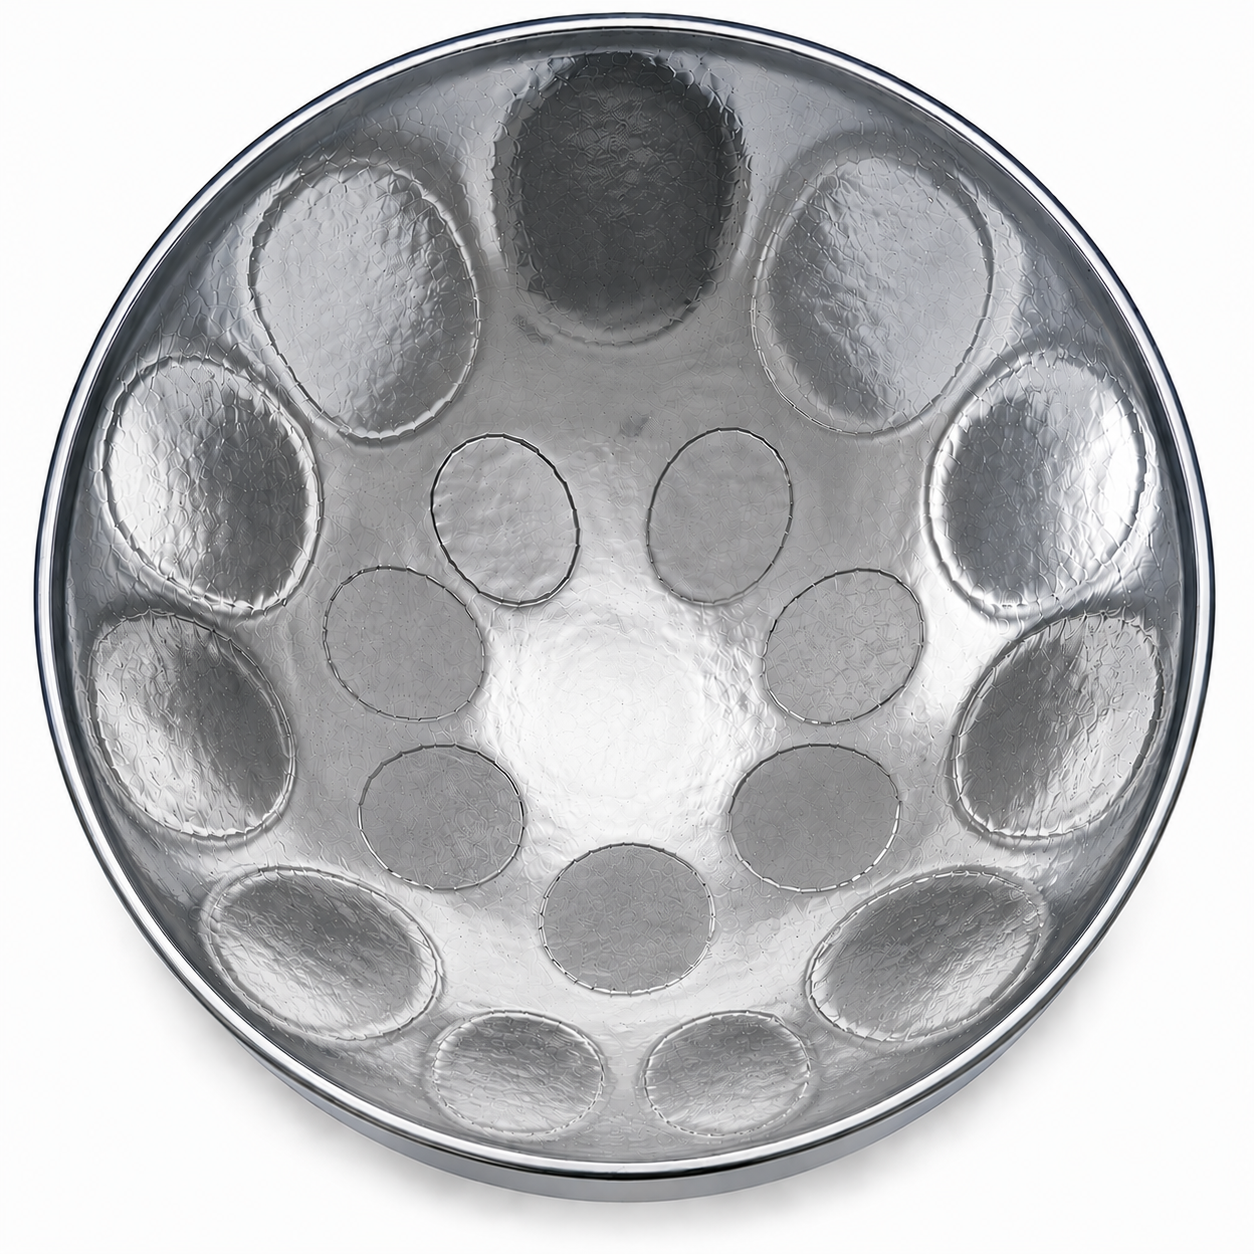
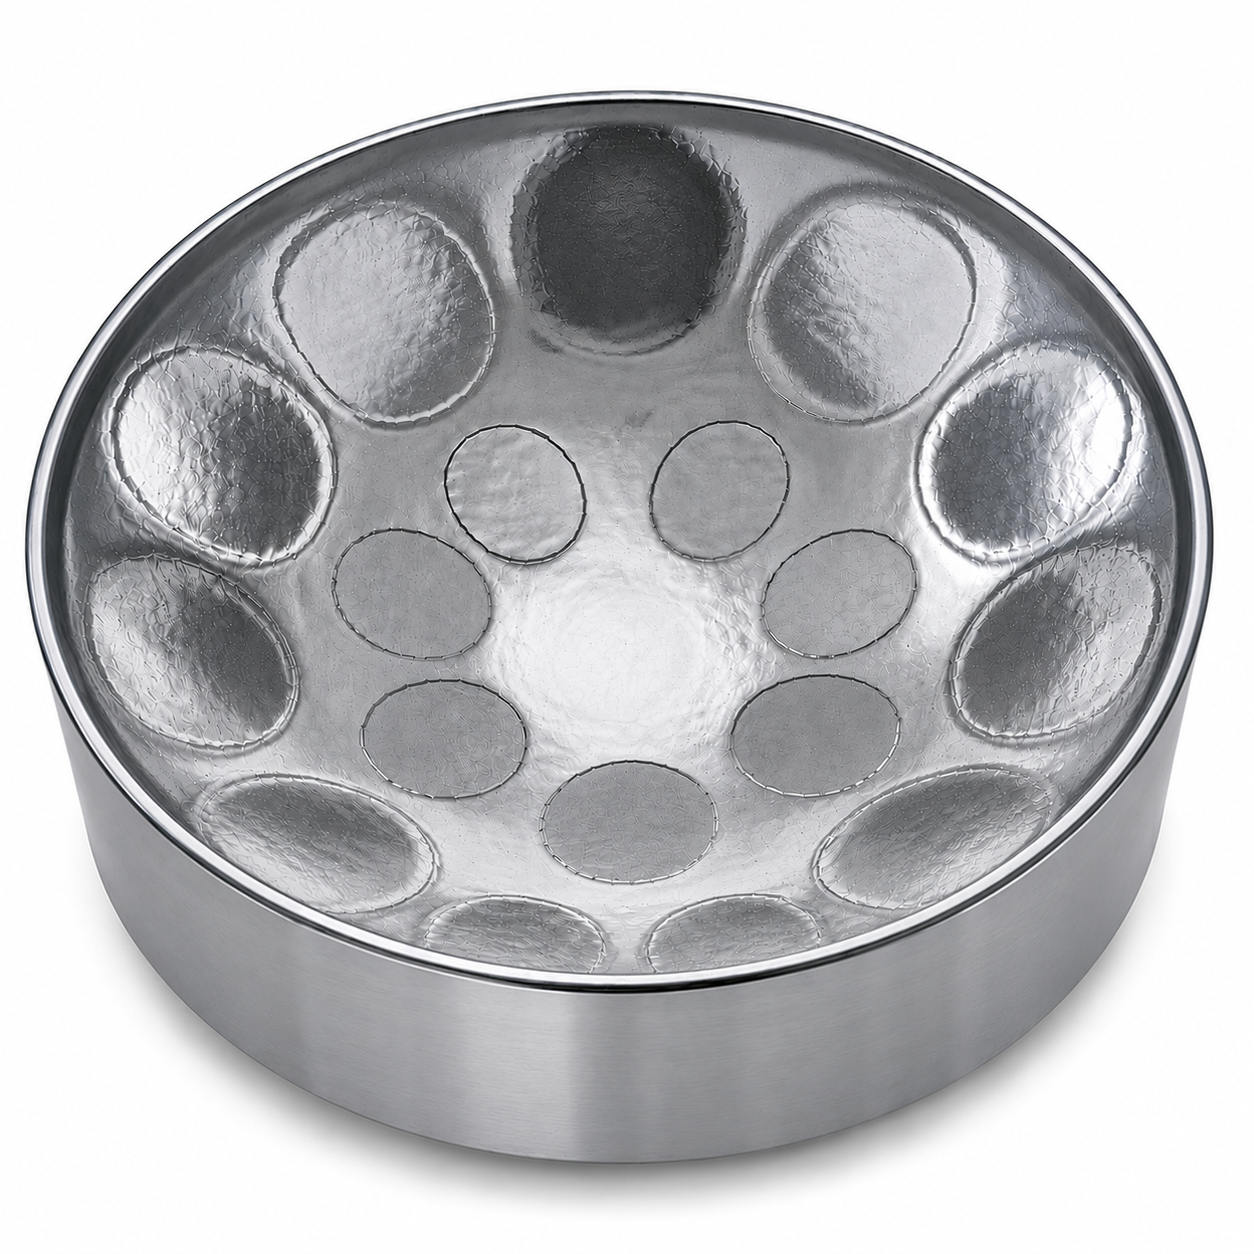
Changes to pan wrap and register stick

diff --git a/docs/index2.html b/docs/index2.html
@@ -16,7 +16,7 @@ box-sizing: border-box;
 :root {
 --rim-color: #222;
 --cream-tip: #fffdd0;
---neon-blue: #00e5ff;
+--neon-blue: #00b8d4;
 --neon-pink: #ff007b;
 --highlander-blue: #002366;
 --highlander-orange: #f37021;
@@ -90,51 +90,21 @@ position: relative;
 width: min(390px, 40dvh, calc(100vw - 56px));
 width: min(390px, 40dvh, calc(100dvw - 56px));
 aspect-ratio: 1;
-border-radius: 50%;
 border: 0;
-box-shadow:
-0 46px 90px rgba(0,0,0,0.82),
-0 14px 28px rgba(0,229,255,0.12),
-inset 0 0 34px rgba(255,255,255,0.32),
-inset 0 -24px 44px rgba(0,0,0,0.55);
-overflow: hidden;
-background: #111;
+background: transparent;
 isolation: isolate;
 }
 
 .pan-wrap::before,
 .pan-wrap::after {
-content: "";
-position: absolute;
-inset: 0;
-border-radius: 50%;
-pointer-events: none;
-z-index: 2;
-}
-
-.pan-wrap::before {
-box-shadow:
-inset 0 0 0 clamp(7px, 1.9vw, 13px) rgba(42,47,51,0.9),
-inset 0 0 0 clamp(10px, 2.6vw, 18px) rgba(220,226,229,0.48),
-inset 18px 22px 36px rgba(255,255,255,0.35),
-inset -20px -26px 42px rgba(0,0,0,0.46);
-}
-
-.pan-wrap::after {
-background:
-radial-gradient(circle at 34% 24%, rgba(255,255,255,0.34), transparent 18%),
-radial-gradient(circle at 72% 82%, rgba(0,0,0,0.32), transparent 24%),
-linear-gradient(145deg, rgba(255,255,255,0.18), transparent 42%, rgba(0,0,0,0.28));
-mix-blend-mode: screen;
-opacity: 0.62;
+display: none;
 }
 
 .pan-img {
 display: block;
 width: 100%;
 height: 100%;
-object-fit: cover;
-transform: scale(1.08);
+object-fit: contain;
 filter: contrast(1.14) saturate(1.03) brightness(0.98);
 }
 

diff --git a/docs/index.html b/docs/index.html
@@ -16,7 +16,7 @@ box-sizing: border-box;
 :root {
 --rim-color: #222;
 --cream-tip: #fffdd0;
---neon-blue: #00e5ff;
+--neon-blue: #00b8d4;
 --neon-pink: #ff007b;
 --highlander-blue: #002366;
 --highlander-orange: #f37021;
@@ -91,7 +91,7 @@ width: min(390px, 40dvh, calc(100vw - 56px));
 width: min(390px, 40dvh, calc(100dvw - 56px));
 aspect-ratio: 1;
 border-radius: 50%;
-border: clamp(8px, 3vw, 15px) solid var(--rim-color);
+border: clamp(8px, 3vw, 15px) solid transparent;
 box-shadow: 0 40px 80px rgba(0,0,0,0.8), inset 0 0 60px rgba(0,0,0,0.7);
 display: flex;
 justify-content: center;
